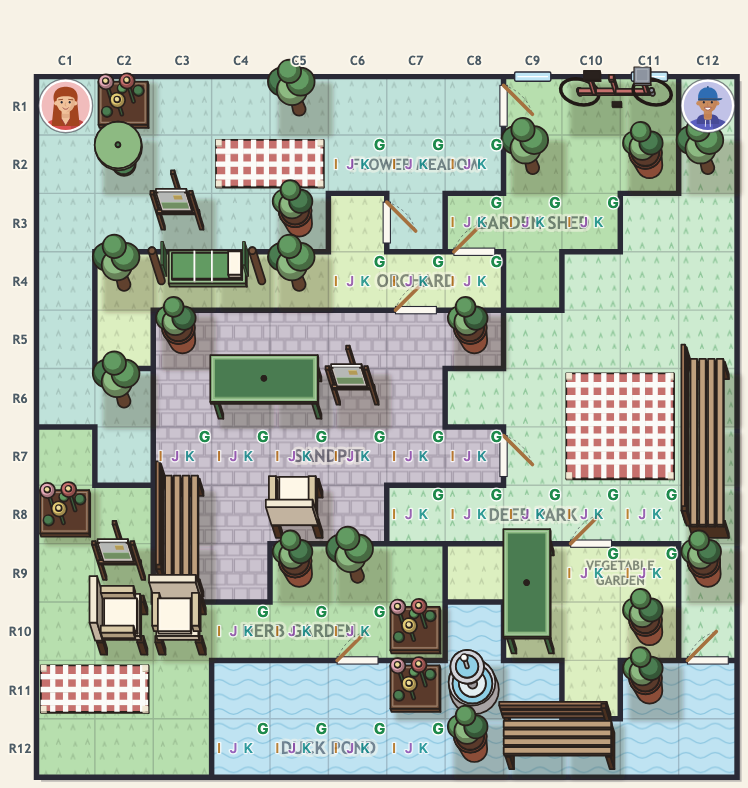
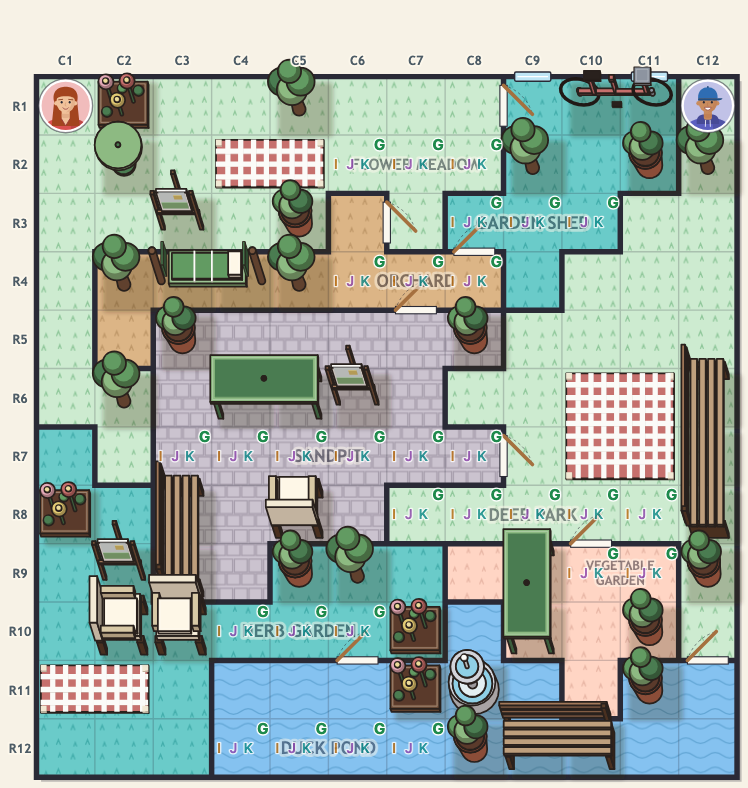
feat(render): touching rooms get clearly different hues, not shades (SLAY-20)
Owner on PR #171: the tints still looked too much alike. Every floor kind now
has its classic tone plus a shared lattice of 13 tints in CIE Lab (two hue
rings and a grey, all at least 18 delta E apart and 7:1 or better against
the label ink). The room-map colouring goes most constrained room first and
takes the tone furthest from its neighbours (26 or more counts as far
enough), keeping the classic tone when the neighbours allow. The schedule
test now requires every touching pair to be 18 or more apart (closest over
all days: 26.5). Screenshots re-rendered, with a before/after pair.

Changed region(s): [[0.0307, 0.5178, 0.984, 1.0], [0.123, 0.0914, 0.9225, 0.4873]]

diff --git a/src/render/scene/roomStyles.ts b/src/render/scene/roomStyles.ts
@@ -13,70 +13,60 @@ export interface FloorStyle {
 export interface RoomStyle {
   id: FloorPattern
   /**
-   * Tones of one floor kind, far enough apart (CIE76 delta E >= 8.5 within a kind) that two rooms of
-   * the same kind side by side read as two rooms (SLAY-20). The first is the kind's classic tone.
+   * The tones a room of this floor kind can get: its classic tone first, then the shared tints
+   * (TINTS) that are clearly another colour than the classic, nearest first (SLAY-20).
    */
   variants: readonly FloorStyle[]
 }
 
-/** Own flat palette, in the spirit of the official sheets: soft fills, light pattern lines. */
-export const ROOM_STYLES: Record<FloorPattern, RoomStyle> = {
-  wood: {
-    id: 'wood',
-    variants: [
-      { fill: '#f1d9a6', ink: '#d7b978' },
-      { fill: '#dfb67e', ink: '#c1a06a' },
-      { fill: '#f8ecd0', ink: '#d7ccb3' },
-      { fill: '#efc0a0', ink: '#cfa588' },
-      { fill: '#d8d4ae', ink: '#bab795' },
-    ],
-  },
-  tiles: {
-    id: 'tiles',
-    variants: [
-      { fill: '#f6efe0', ink: '#e3d6bb' },
-      { fill: '#e6f0ee', ink: '#c9dcd8' },
-      { fill: '#eee6f3', ink: '#cec7d3' },
-      { fill: '#fbe6c8', ink: '#dac7ac' },
-    ],
-  },
-  grass: {
-    id: 'grass',
-    variants: [
-      { fill: '#cdebd0', ink: '#8fc79a' },
-      { fill: '#b7dfae', ink: '#9dc195' },
-      { fill: '#dcefc0', ink: '#becfa5' },
-      { fill: '#bfe2da', ink: '#a4c3bc' },
-    ],
-  },
-  water: {
-    id: 'water',
-    variants: [
-      { fill: '#bfe3f2', ink: '#8cc6e0' },
-      { fill: '#a7d0ea', ink: '#8eb3cb' },
-      { fill: '#c9eae6', ink: '#adcbc7' },
-      { fill: '#d3dcf5', ink: '#b6bed5' },
-    ],
-  },
-  stone: {
-    id: 'stone',
-    variants: [
-      { fill: '#cbc3cf', ink: '#a79eac' },
-      { fill: '#d5c3bd', ink: '#b39f98' },
-      { fill: '#bfc8bc', ink: '#a4aca1' },
-      { fill: '#e3ddd3', ink: '#c4bfb6' },
-    ],
-  },
-  carpet: {
-    id: 'carpet',
-    variants: [
-      { fill: '#e2d7f1', ink: '#c5b4e0' },
-      { fill: '#f3d3da', ink: '#e2aebb' },
-      { fill: '#d4e1f2', ink: '#b7c3d2' },
-      { fill: '#ecc6df', ink: '#ccaac1' },
-    ],
-  },
+/** The classic tone of each floor kind (the look before SLAY-20): what a room gets when no neighbour is in the way. */
+const CLASSIC: Record<FloorPattern, FloorStyle> = {
+  wood: { fill: '#f1d9a6', ink: '#d7b978' },
+  tiles: { fill: '#f6efe0', ink: '#e3d6bb' },
+  grass: { fill: '#cdebd0', ink: '#8fc79a' },
+  water: { fill: '#bfe3f2', ink: '#8cc6e0' },
+  stone: { fill: '#cbc3cf', ink: '#a79eac' },
+  carpet: { fill: '#e2d7f1', ink: '#c5b4e0' },
 }
+
+/**
+ * Shared tints, a lattice in CIE L*a*b* (SLAY-20, owner: "the tints still look too much alike"): six hues
+ * at L* 76 and chroma 30, six hues in between at L* 89 and chroma 21, and a grey at L* 82. Every two are at
+ * least MIN_NEIGHBOUR_DISTANCE apart, with a real hue shift, and every one keeps the label ink at 7:1 or
+ * better. The floor pattern drawn over it (planks, tiles, blades, waves ...) keeps the material readable.
+ */
+export const TINTS: readonly (FloorStyle & { name: string })[] = [
+  { name: 'rose', fill: '#f3a7ae', ink: '#d68990' },
+  { name: 'honey', fill: '#dcb586', ink: '#be9768' },
+  { name: 'sage', fill: '#a2c593', ink: '#83a875' },
+  { name: 'teal', fill: '#6acbc9', ink: '#42adab' },
+  { name: 'sky', fill: '#85c2f0', ink: '#61a5d4' },
+  { name: 'lilac', fill: '#d1b0e3', ink: '#b391c6' },
+  { name: 'peach', fill: '#ffd5c4', ink: '#e8b6a5' },
+  { name: 'straw', fill: '#e5e1b9', ink: '#c6c399' },
+  { name: 'mint', fill: '#b9ead5', ink: '#99ccb6' },
+  { name: 'ice', fill: '#ade9fb', ink: '#8bcbdd' },
+  { name: 'periwinkle', fill: '#d6deff', ink: '#b7bfe8' },
+  { name: 'blush', fill: '#ffd3ea', ink: '#e4b3cc' },
+  { name: 'grey', fill: '#cccccc', ink: '#aeaeae' },
+]
+
+/** Rooms that touch differ by at least this much (CIE76 delta E): another colour at a glance, not a shade. */
+export const MIN_NEIGHBOUR_DISTANCE = 18
+
+function variantsOf(pattern: FloorPattern): FloorStyle[] {
+  const classic = CLASSIC[pattern]
+  const others = TINTS.filter((t) => colourDistance(t.fill, classic.fill) >= MIN_NEIGHBOUR_DISTANCE)
+    .map(({ fill, ink }) => ({ fill, ink, d: colourDistance(fill, classic.fill) }))
+    .sort((x, y) => x.d - y.d)
+    .map(({ fill, ink }) => ({ fill, ink }))
+  return [classic, ...others]
+}
+
+/** Own flat palette, in the spirit of the official sheets: soft fills, light pattern lines. */
+export const ROOM_STYLES: Record<FloorPattern, RoomStyle> = Object.fromEntries(
+  (Object.keys(CLASSIC) as FloorPattern[]).map((id) => [id, { id, variants: variantsOf(id) }]),
+) as unknown as Record<FloorPattern, RoomStyle>
 
 const CYCLE: FloorPattern[] = ['wood', 'carpet', 'tiles', 'grass', 'stone', 'water']
 
@@ -99,7 +89,7 @@ export function styleForName(name: string): FloorPattern | undefined {
 
 export interface ResolvedRoomStyle {
   pattern: FloorPattern
-  /** Which tone of the pattern's palette (an index past the palette is a darker shade of the last tones). */
+  /** Which tone of the pattern's palette (ROOM_STYLES[pattern].variants). */
   variant: number
   fill: string
   ink: string
@@ -121,17 +111,6 @@ function lab(hex: string): [number, number, number] {
 export function colourDistance(a: string, b: string): number {
   const [p, q] = [lab(a), lab(b)]
   return Math.hypot(p[0] - q[0], p[1] - q[1], p[2] - q[2])
-}
-
-const darker = (hex: string, factor: number) =>
-  '#' + [1, 3, 5].map((i) => Math.round(parseInt(hex.slice(i, i + 2), 16) * factor).toString(16).padStart(2, '0')).join('')
-
-/** Tone `i` of a pattern; past the palette (a room with more same-kind neighbours than tones, never seen in practice) a darker shade. */
-function toneOf(pattern: FloorPattern, i: number): FloorStyle {
-  const tones = ROOM_STYLES[pattern].variants
-  const base = tones[i % tones.length]!
-  const round = Math.floor(i / tones.length)
-  return round === 0 ? base : { fill: darker(base.fill, 1 - 0.06 * round), ink: darker(base.ink, 1 - 0.06 * round) }
 }
 
 /** Rooms that touch: share a wall or a corner (a corner is where two floors meet too). */
@@ -156,18 +135,19 @@ export function roomNeighbours(scene: Pick<Scene, 'cellRooms'>): Map<string, Set
   return next
 }
 
-/** Tones further apart than this all count as clearly different; then variety decides. */
-const CLEAR = 12
+/** Tones at least this far from every neighbour all count as far enough; then the kind's own look decides. */
+const FAR_ENOUGH = 26
 
 /**
  * One floor style per room: an explicit override wins, then the floor a theme gave the room
  * name, then a name hint (kitchen -> tiles, garden -> grass ...), then a cycle through the kinds.
  *
  * The tone is a colouring of the room map (SLAY-20, owner: "the colours of the rooms should differ
- * per room"): rooms that touch never share a fill, and among the tones of its kind a room takes the
- * one furthest from its already-coloured neighbours (up to CLEAR), then the tone used least in the
- * scene. Rooms go most-neighbours first, so the crowded middle of the map picks before the edges.
- * Deterministic: it reads only the scene. Without `cellRooms` there is no map and only variety counts.
+ * per room"): rooms that touch (a wall or a corner) get tones at least MIN_NEIGHBOUR_DISTANCE apart.
+ * Greedy, most constrained room first (most coloured neighbours, then most neighbours, then map order):
+ * a room takes the tone of its kind with the largest distance to its coloured neighbours, where every
+ * distance of FAR_ENOUGH or more counts the same, so a room keeps its classic tone (or the nearest tint
+ * to it) whenever its neighbours allow. Deterministic: it reads only the scene.
  */
 export function resolveRoomStyles(
   scene: Pick<Scene, 'rooms'> & Partial<Pick<Scene, 'cellRooms'>>,
@@ -180,31 +160,21 @@ export function resolveRoomStyles(
       overrides[room.id] ?? styleForName(room.name) ?? (CYCLE[index % CYCLE.length] as FloorPattern),
     ]),
   )
-  const degree = (id: string) => neighbours.get(id)?.size ?? 0
-  const order = scene.rooms
-    .map((room, index) => ({ id: room.id, index }))
-    .sort((a, b) => degree(b.id) - degree(a.id) || a.index - b.index)
-
-  const used = new Map<string, number>()
+  const next = (id: string) => [...(neighbours.get(id) ?? [])]
   const result: Record<string, ResolvedRoomStyle> = {}
-  for (const { id } of order) {
+  const left = scene.rooms.map((room, index) => ({ id: room.id, index }))
+  while (left.length > 0) {
+    const coloured = (id: string) => next(id).filter((n) => result[n]).length
+    left.sort((a, b) => coloured(b.id) - coloured(a.id) || next(b.id).length - next(a.id).length || a.index - b.index)
+    const { id } = left.shift()!
     const pattern = patternOf.get(id)!
-    const near = [...(neighbours.get(id) ?? [])].flatMap((n) => (result[n] ? [result[n].fill] : []))
-    let best: { variant: number; tone: FloorStyle; score: number; uses: number } | undefined
-    for (let variant = 0; ; variant++) {
-      const tone = toneOf(pattern, variant)
-      const palette = variant < ROOM_STYLES[pattern].variants.length
-      if (!near.includes(tone.fill)) {
-        const score = Math.min(CLEAR, ...near.map((fill) => colourDistance(fill, tone.fill)))
-        const uses = used.get(`${pattern}:${variant}`) ?? 0
-        if (!best || score > best.score || (score === best.score && uses < best.uses)) best = { variant, tone, score, uses }
-      }
-      // Past the palette only as a last resort: the first free shade ends the search.
-      if (!palette && best) break
-      if (variant === ROOM_STYLES[pattern].variants.length - 1 && best) break
-    }
-    used.set(`${pattern}:${best.variant}`, best.uses + 1)
-    result[id] = { pattern, variant: best.variant, ...best.tone }
+    const near = next(id).flatMap((n) => (result[n] ? [result[n].fill] : []))
+    let best = { variant: 0, score: -1 }
+    ROOM_STYLES[pattern].variants.forEach((tone, variant) => {
+      const score = near.includes(tone.fill) ? 0 : Math.min(FAR_ENOUGH, ...near.map((fill) => colourDistance(fill, tone.fill)))
+      if (score > best.score) best = { variant, score }
+    })
+    result[id] = { pattern, variant: best.variant, ...ROOM_STYLES[pattern].variants[best.variant]! }
   }
   return result
 }

diff --git a/src/render/scene/roomStyles.test.ts b/src/render/scene/roomStyles.test.ts
@@ -1,6 +1,6 @@
 import { describe, expect, it } from 'vitest'
 import { readSchedule } from '../../schedule/schedule.testing.ts'
-import { colourDistance, resolveRoomStyles, roomNeighbours, ROOM_STYLES } from './roomStyles.ts'
+import { colourDistance, MIN_NEIGHBOUR_DISTANCE, resolveRoomStyles, roomNeighbours, ROOM_STYLES, TINTS } from './roomStyles.ts'
 
 const { days } = readSchedule()
 /** The fallback of THEME.labelInk (theme.ts), the ink of room names. */
@@ -19,10 +19,11 @@ const contrast = (a: string, b: string) => {
 }
 
 describe('room tints (SLAY-20)', () => {
-  it('every tone of a floor kind is clearly another colour than the other tones of that kind', () => {
+  it('the shared tints, and every tone of a floor kind, are clearly different colours', () => {
+    TINTS.forEach((a, i) => TINTS.slice(i + 1).forEach((b) => expect(colourDistance(a.fill, b.fill), `${a.name} ${b.name}`).toBeGreaterThanOrEqual(MIN_NEIGHBOUR_DISTANCE)))
     for (const style of Object.values(ROOM_STYLES)) {
       style.variants.forEach((a, i) =>
-        style.variants.slice(i + 1).forEach((b) => expect(colourDistance(a.fill, b.fill), `${style.id} ${a.fill} ${b.fill}`).toBeGreaterThanOrEqual(8.5)),
+        style.variants.slice(i + 1).forEach((b) => expect(colourDistance(a.fill, b.fill), `${style.id} ${a.fill} ${b.fill}`).toBeGreaterThanOrEqual(MIN_NEIGHBOUR_DISTANCE)),
       )
     }
   })
@@ -36,23 +37,21 @@ describe('room tints (SLAY-20)', () => {
     }
   })
 
-  it(`two rooms that touch (a wall or a corner) never share a tint, on every scheduled day (${days.length} days)`, () => {
-    let pairs = 0
-    let clear = 0
+  it(`two rooms that touch (a wall or a corner) are clearly different colours (delta E >= MIN_NEIGHBOUR_DISTANCE), on every scheduled day (${days.length} days)`, () => {
+    let worst = Infinity
     for (const day of days) {
       const scene = day.puzzle.scene
       const styles = resolveRoomStyles(scene)
       for (const [room, next] of roomNeighbours(scene)) {
         for (const other of next) {
           const [a, b] = [styles[room]!, styles[other]!]
-          expect(a.fill, `${day.date} ${room}/${other}`).not.toBe(b.fill)
-          pairs++
-          if (colourDistance(a.fill, b.fill) >= 9) clear++
+          const d = colourDistance(a.fill, b.fill)
+          expect(d, `${day.date} ${room} ${a.fill} / ${other} ${b.fill}`).toBeGreaterThanOrEqual(MIN_NEIGHBOUR_DISTANCE)
+          worst = Math.min(worst, d)
         }
       }
     }
-    // Not only different hex codes: nearly every touching pair is a clearly different colour.
-    expect(clear / pairs).toBeGreaterThanOrEqual(0.97)
+    console.log(`closest touching pair over the schedule: delta E ${worst.toFixed(1)}`)
   })
 
   it('is deterministic: the same scene always gets the same tints', () => {

diff --git a/src/render/scene/geometry.test.ts b/src/render/scene/geometry.test.ts
@@ -11,7 +11,7 @@ import {
 } from './geometry.ts'
 import { HEADROOM } from '../looks/project.ts'
 import { roomLabelLayout } from './labels.ts'
-import { resolveRoomStyles, styleForName } from './roomStyles.ts'
+import { colourDistance, MIN_NEIGHBOUR_DISTANCE, resolveRoomStyles, styleForName } from './roomStyles.ts'
 import { sample9x9 } from './sample.fixture.ts'
 
 const tutorial = tutorialPuzzle.scene
@@ -142,13 +142,14 @@ describe('resolveRoomStyles', () => {
     expect(styleForName('Zzz')).toBeUndefined()
   })
 
-  it('lets an override win and gives a repeated pattern another tone', () => {
-    const scene = { rooms: [{ id: 'a', name: 'Hall' }, { id: 'b', name: 'Kitchen' }, { id: 'c', name: 'Zzz' }] }
+  it('lets an override win and gives a touching room of the same kind another tone', () => {
+    const scene = { rooms: [{ id: 'a', name: 'Hall' }, { id: 'b', name: 'Kitchen' }, { id: 'c', name: 'Zzz' }], cellRooms: [['a', 'b', 'c']] }
     const styles = resolveRoomStyles(scene, { c: 'tiles' })
     expect(styles['c']?.pattern).toBe('tiles')
-    expect(styles['a']?.variant).toBe(0)
-    expect(styles['b']?.variant).toBe(1)
-    expect(styles['a']?.fill).not.toBe(styles['b']?.fill)
+    // b touches both, so it picks first and keeps the classic tone; its neighbours move away from it.
+    expect(styles['b']?.variant).toBe(0)
+    expect(colourDistance(styles['a']!.fill, styles['b']!.fill)).toBeGreaterThanOrEqual(MIN_NEIGHBOUR_DISTANCE)
+    expect(colourDistance(styles['c']!.fill, styles['b']!.fill)).toBeGreaterThanOrEqual(MIN_NEIGHBOUR_DISTANCE)
   })
 
   it('always resolves a style for every room', () => {

diff --git a/docs/design/looks.md b/docs/design/looks.md
@@ -183,6 +183,7 @@ Where it lands and what you do not have to do:
 
 Owner feedback on 2026-10-08: "De kleuren van de kamers moeten per kamer iets anders zijn" and "Soms zie je visueel de notitie niet als er een kamer naam boven staat".
 
-- **Tints are a colouring of the room map.** The floor kind (wood, tiles, grass, water, stone, carpet) still comes from the theme and the room name; each kind now has four or five tones (`ROOM_STYLES` in `src/render/scene/roomStyles.ts`, at least 8.5 CIE76 delta E apart within a kind, all light enough for the label ink at 7:1). `resolveRoomStyles` reads the room adjacency from `cellRooms` (a shared wall or a corner): rooms go most-neighbours first, each takes the tone of its kind furthest from its already coloured neighbours, then the tone used least on the board. Deterministic, it reads only the scene. `roomStyles.test.ts` checks every scheduled day: rooms that touch never share a fill, and at least 97 percent of touching pairs are 9 delta E or more apart.
+- **Tints are a colouring of the room map.** The floor kind (wood, tiles, grass, water, stone, carpet) still comes from the theme and the room name, and its pattern (planks, tiles, blades, waves ...) keeps the material readable. The colour under it is chosen per room (`src/render/scene/roomStyles.ts`): every kind has its classic tone plus the shared `TINTS`, a lattice in CIE L*a*b* (six hues at L* 76 chroma 30, six hues in between at L* 89 chroma 21, a grey at L* 82). Any two tints are at least 18 delta E apart with a real hue shift, and all keep the label ink at 7:1 or better. `resolveRoomStyles` colours the room adjacency from `cellRooms` (a shared wall or a corner) greedily, most constrained room first; a room takes the tone of its kind furthest from its coloured neighbours, where 26 or more counts as far enough, so it keeps its classic tone (or the tint nearest to it) whenever the neighbours allow. Deterministic, it reads only the scene. `roomStyles.test.ts` checks every scheduled day: every touching pair is at least 18 apart (the closest pair over the whole schedule is 26.5).
+- Owner round 2 (PR #171, "De tinten lijken nog steeds iets te veel op elkaar"): the first version had four or five tones per kind 8.5 apart, mostly lightness steps. Before and after: `before-tints-v1-2026-10-20-12x12-school-390.png` and `2026-10-20-12x12-school-390-board.png`.
 - **Notes draw above the room names.** Layer order is now marks, people, room labels, **notes**, axis labels, hit squares. A label whose squares carry notes fades to half opacity (`YIELDING_LABEL_OPACITY`, `RoomLabels.tsx`), so the letters with their white halo stay the clearest thing and the name still shows through; a label over empty squares is unchanged. Notes on a square with a placed person are not drawn (they were hidden under the disc before). Other options looked at: letting the label jump to a run without notes (it moves while you play) and drawing notes over a full-strength label (the two texts cut into each other and both read worse).
 - Screenshots: `docs/design/looks-shots/slay-20/` (crowded 9x9 and 12x12 boards, every label square with notes of four people, at 360, 390 and 1280 wide). Check: `docs/verification/slay20.ts` (header has the command).
